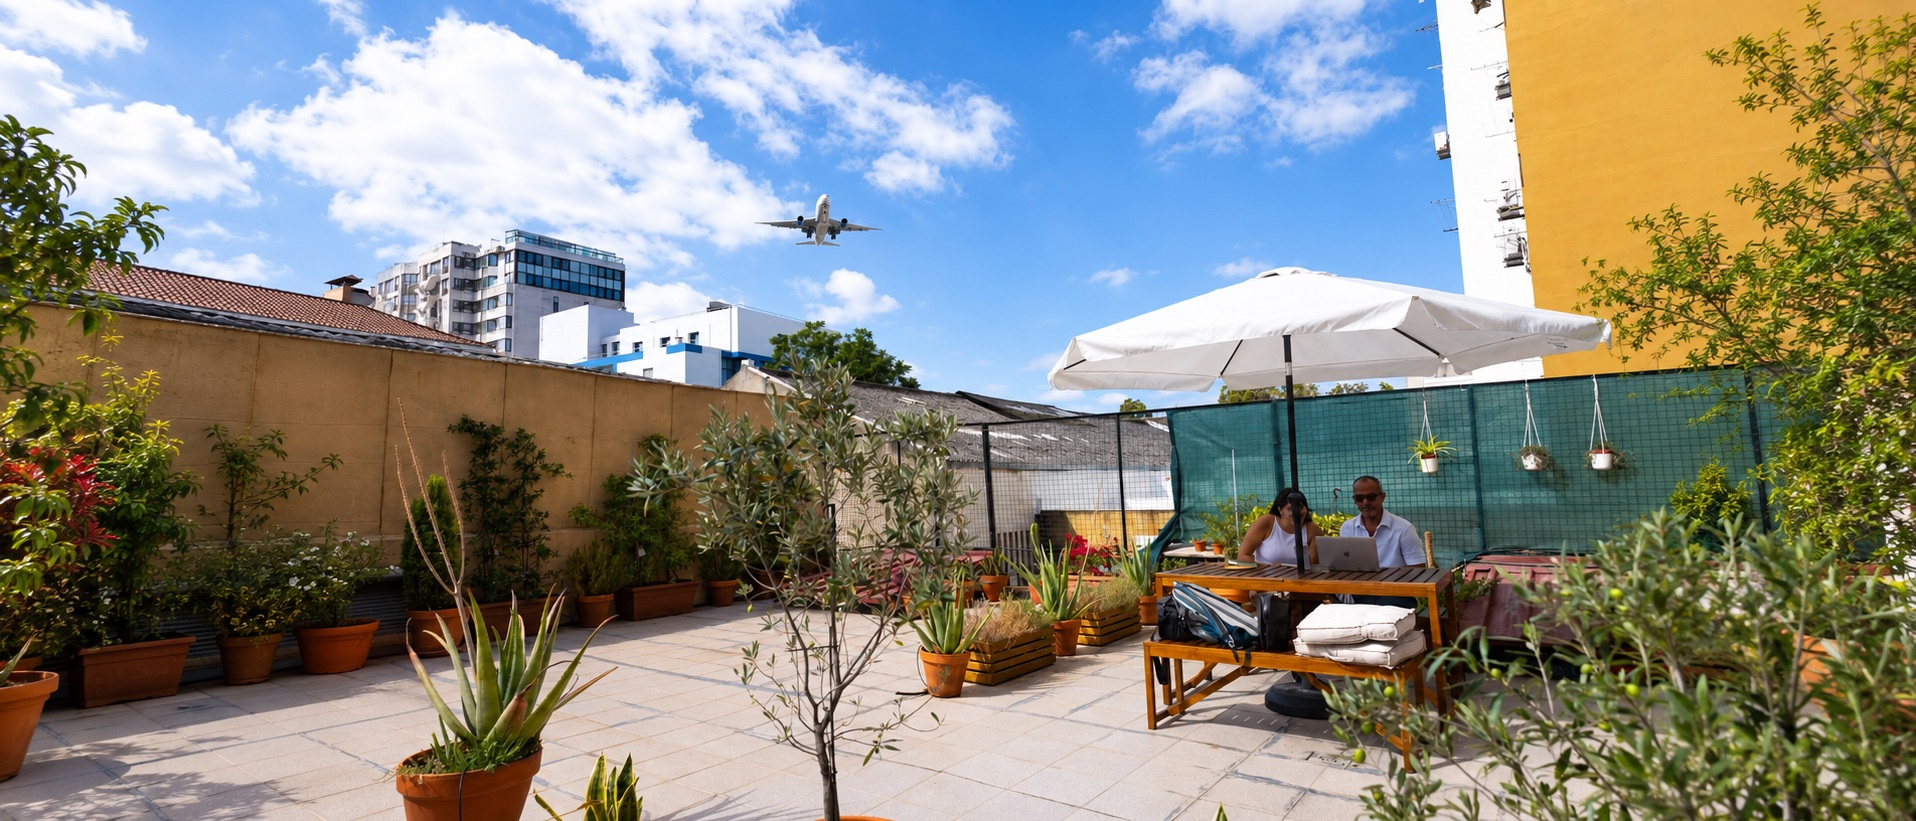
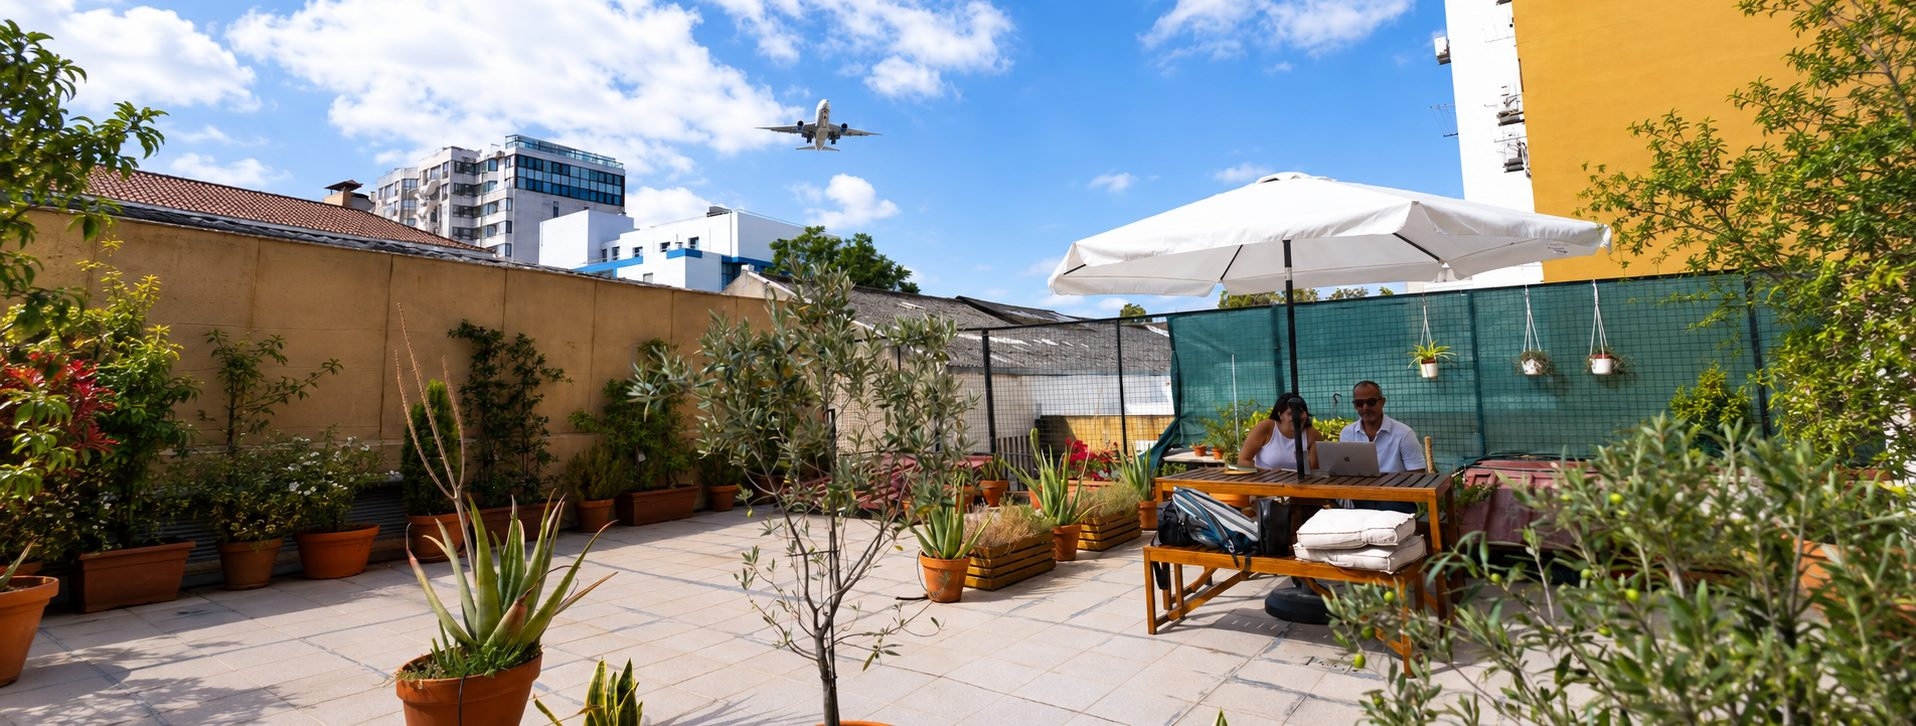
Reframe hero photo so the plane clears the title text
object-position vertical had zero effect here: the container's aspect
is much taller/narrower than the source photo's, so cover always
shows 100% of the image height (only the horizontal slice pans) - the
plane's on-screen vertical position was fixed regardless of that CSS
value. Cropped 95px off the top of the source photo instead, which
actually moves the plane from ~28% down to ~19% down the frame,
clearing both "A personal experiment" and the paragraph below it.
Also reduced hero top padding and fixed the horizontal object-position
per breakpoint - mobile crops to a much narrower sliver of the photo
than desktop, so it needed its own value to keep the plane in frame
instead of falling off the right edge.

diff --git a/about.html b/about.html
@@ -128,13 +128,16 @@ nav {
 .about-hero {
   position: relative; overflow: hidden;
   border: 1px solid var(--border); border-radius: 4px;
-  padding: 100px 48px 80px;
+  padding: 68px 48px 80px;
   max-width: 1200px; margin: 40px auto 0;
 }
 .about-hero-bg { position: absolute; inset: 0; z-index: 0; }
 .about-hero-bg img {
   position: absolute; inset: 0; width: 100%; height: 100%;
-  object-fit: cover; object-position: center 38%;
+  object-fit: cover; object-position: 40% 14%;
+}
+@media (max-width: 900px) {
+  .about-hero-bg img { object-position: 44% 0%; }
 }
 .about-hero-vignette {
   position: absolute; inset: 0;

diff --git a/fr/about.html b/fr/about.html
@@ -128,13 +128,16 @@ nav {
 .about-hero {
   position: relative; overflow: hidden;
   border: 1px solid var(--border); border-radius: 4px;
-  padding: 100px 48px 80px;
+  padding: 68px 48px 80px;
   max-width: 1200px; margin: 40px auto 0;
 }
 .about-hero-bg { position: absolute; inset: 0; z-index: 0; }
 .about-hero-bg img {
   position: absolute; inset: 0; width: 100%; height: 100%;
-  object-fit: cover; object-position: center 38%;
+  object-fit: cover; object-position: 40% 14%;
+}
+@media (max-width: 900px) {
+  .about-hero-bg img { object-position: 44% 0%; }
 }
 .about-hero-vignette {
   position: absolute; inset: 0;

diff --git a/pt/about.html b/pt/about.html
@@ -128,13 +128,16 @@ nav {
 .about-hero {
   position: relative; overflow: hidden;
   border: 1px solid var(--border); border-radius: 4px;
-  padding: 100px 48px 80px;
+  padding: 68px 48px 80px;
   max-width: 1200px; margin: 40px auto 0;
 }
 .about-hero-bg { position: absolute; inset: 0; z-index: 0; }
 .about-hero-bg img {
   position: absolute; inset: 0; width: 100%; height: 100%;
-  object-fit: cover; object-position: center 38%;
+  object-fit: cover; object-position: 40% 14%;
+}
+@media (max-width: 900px) {
+  .about-hero-bg img { object-position: 44% 0%; }
 }
 .about-hero-vignette {
   position: absolute; inset: 0;
